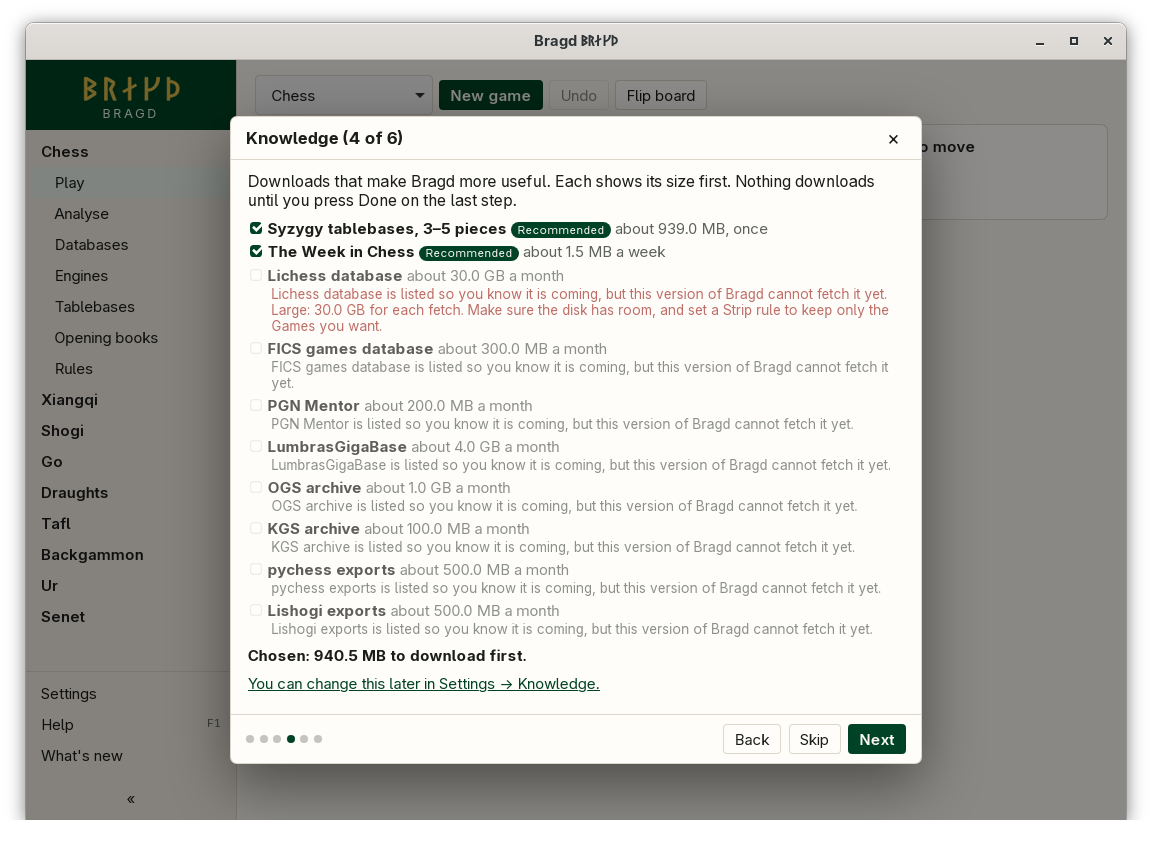
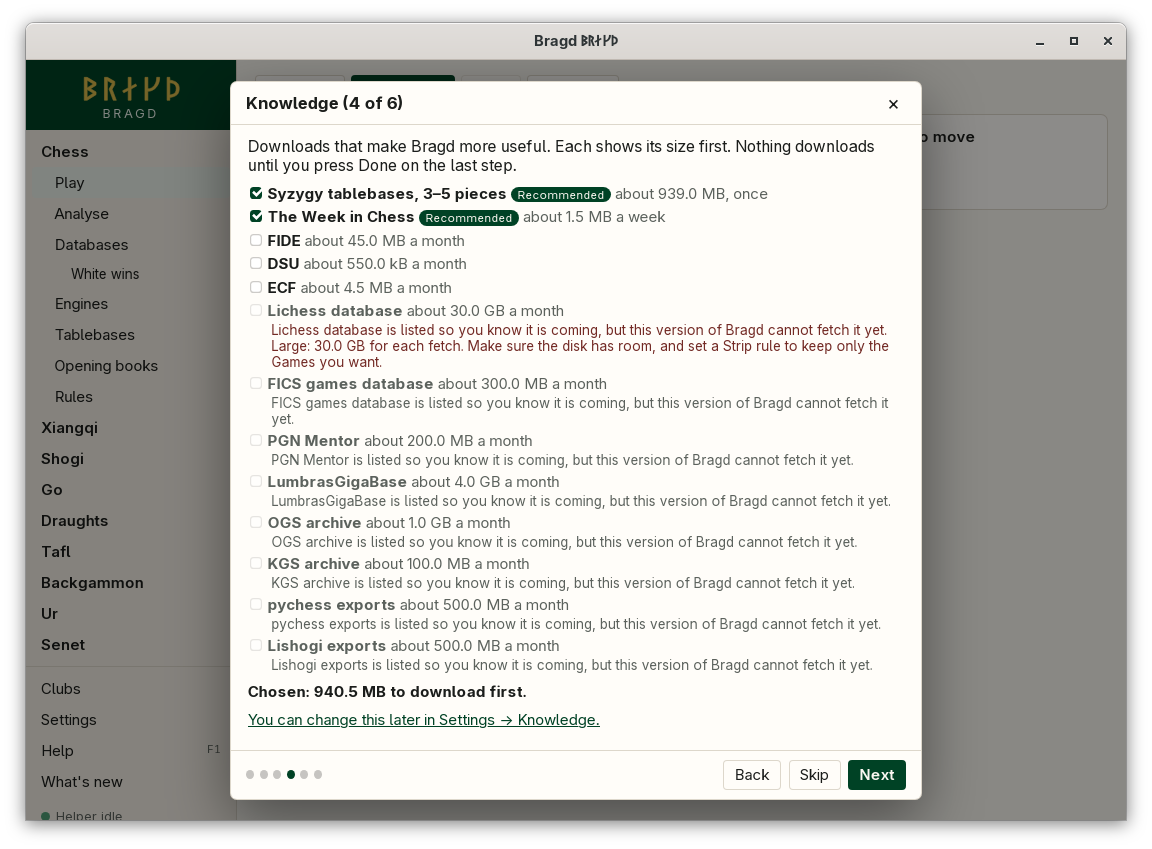
The Clubs page, the sidebar and the wizard's Knowledge step have new pictures.

Changed region(s): [[0.0, 0.0612, 1.0, 0.98], [0.0312, 0.3062, 0.125, 0.7656]]

diff --git a/docs/getting-started/first-start.md b/docs/getting-started/first-start.md
@@ -21,7 +21,7 @@ On the first start Bragd opens the install wizard: six short steps in a frame ov
 
 Choices in steps 1, 2 and 6 are saved at once, as in Settings. Nothing is downloaded until you press **Done** on the last step, which lists what will happen. Then Bragd turns the chosen Sources on in the Helper, starting the Helper if none runs, and starts the Syzygy download. **Skip** on step 4 unticks every download. The wizard adds up the sizes and warns when the downloads would leave less than 5 GB free on the disk that holds Bragd's data. A single Source of 10 GB or more carries its own warning.
 
-![The Knowledge step: TWIC and Syzygy 3–5 ticked and marked Recommended, the Sources not yet fetchable greyed out, and the total under the list](../screenshots/wizard-knowledge-1100.png)
+![The Knowledge step: TWIC and Syzygy 3–5 ticked and marked Recommended, the FIDE, DSU and ECF rating lists unticked, the Sources not yet fetchable greyed out, and the total under the list](../screenshots/wizard-knowledge-1100.png)
 *Step 4, Knowledge: each download with its size, and the total.*
 
 ![The Helper step: the Start with my session switch, and the list of what Done will do](../screenshots/wizard-helper-1100.png)
